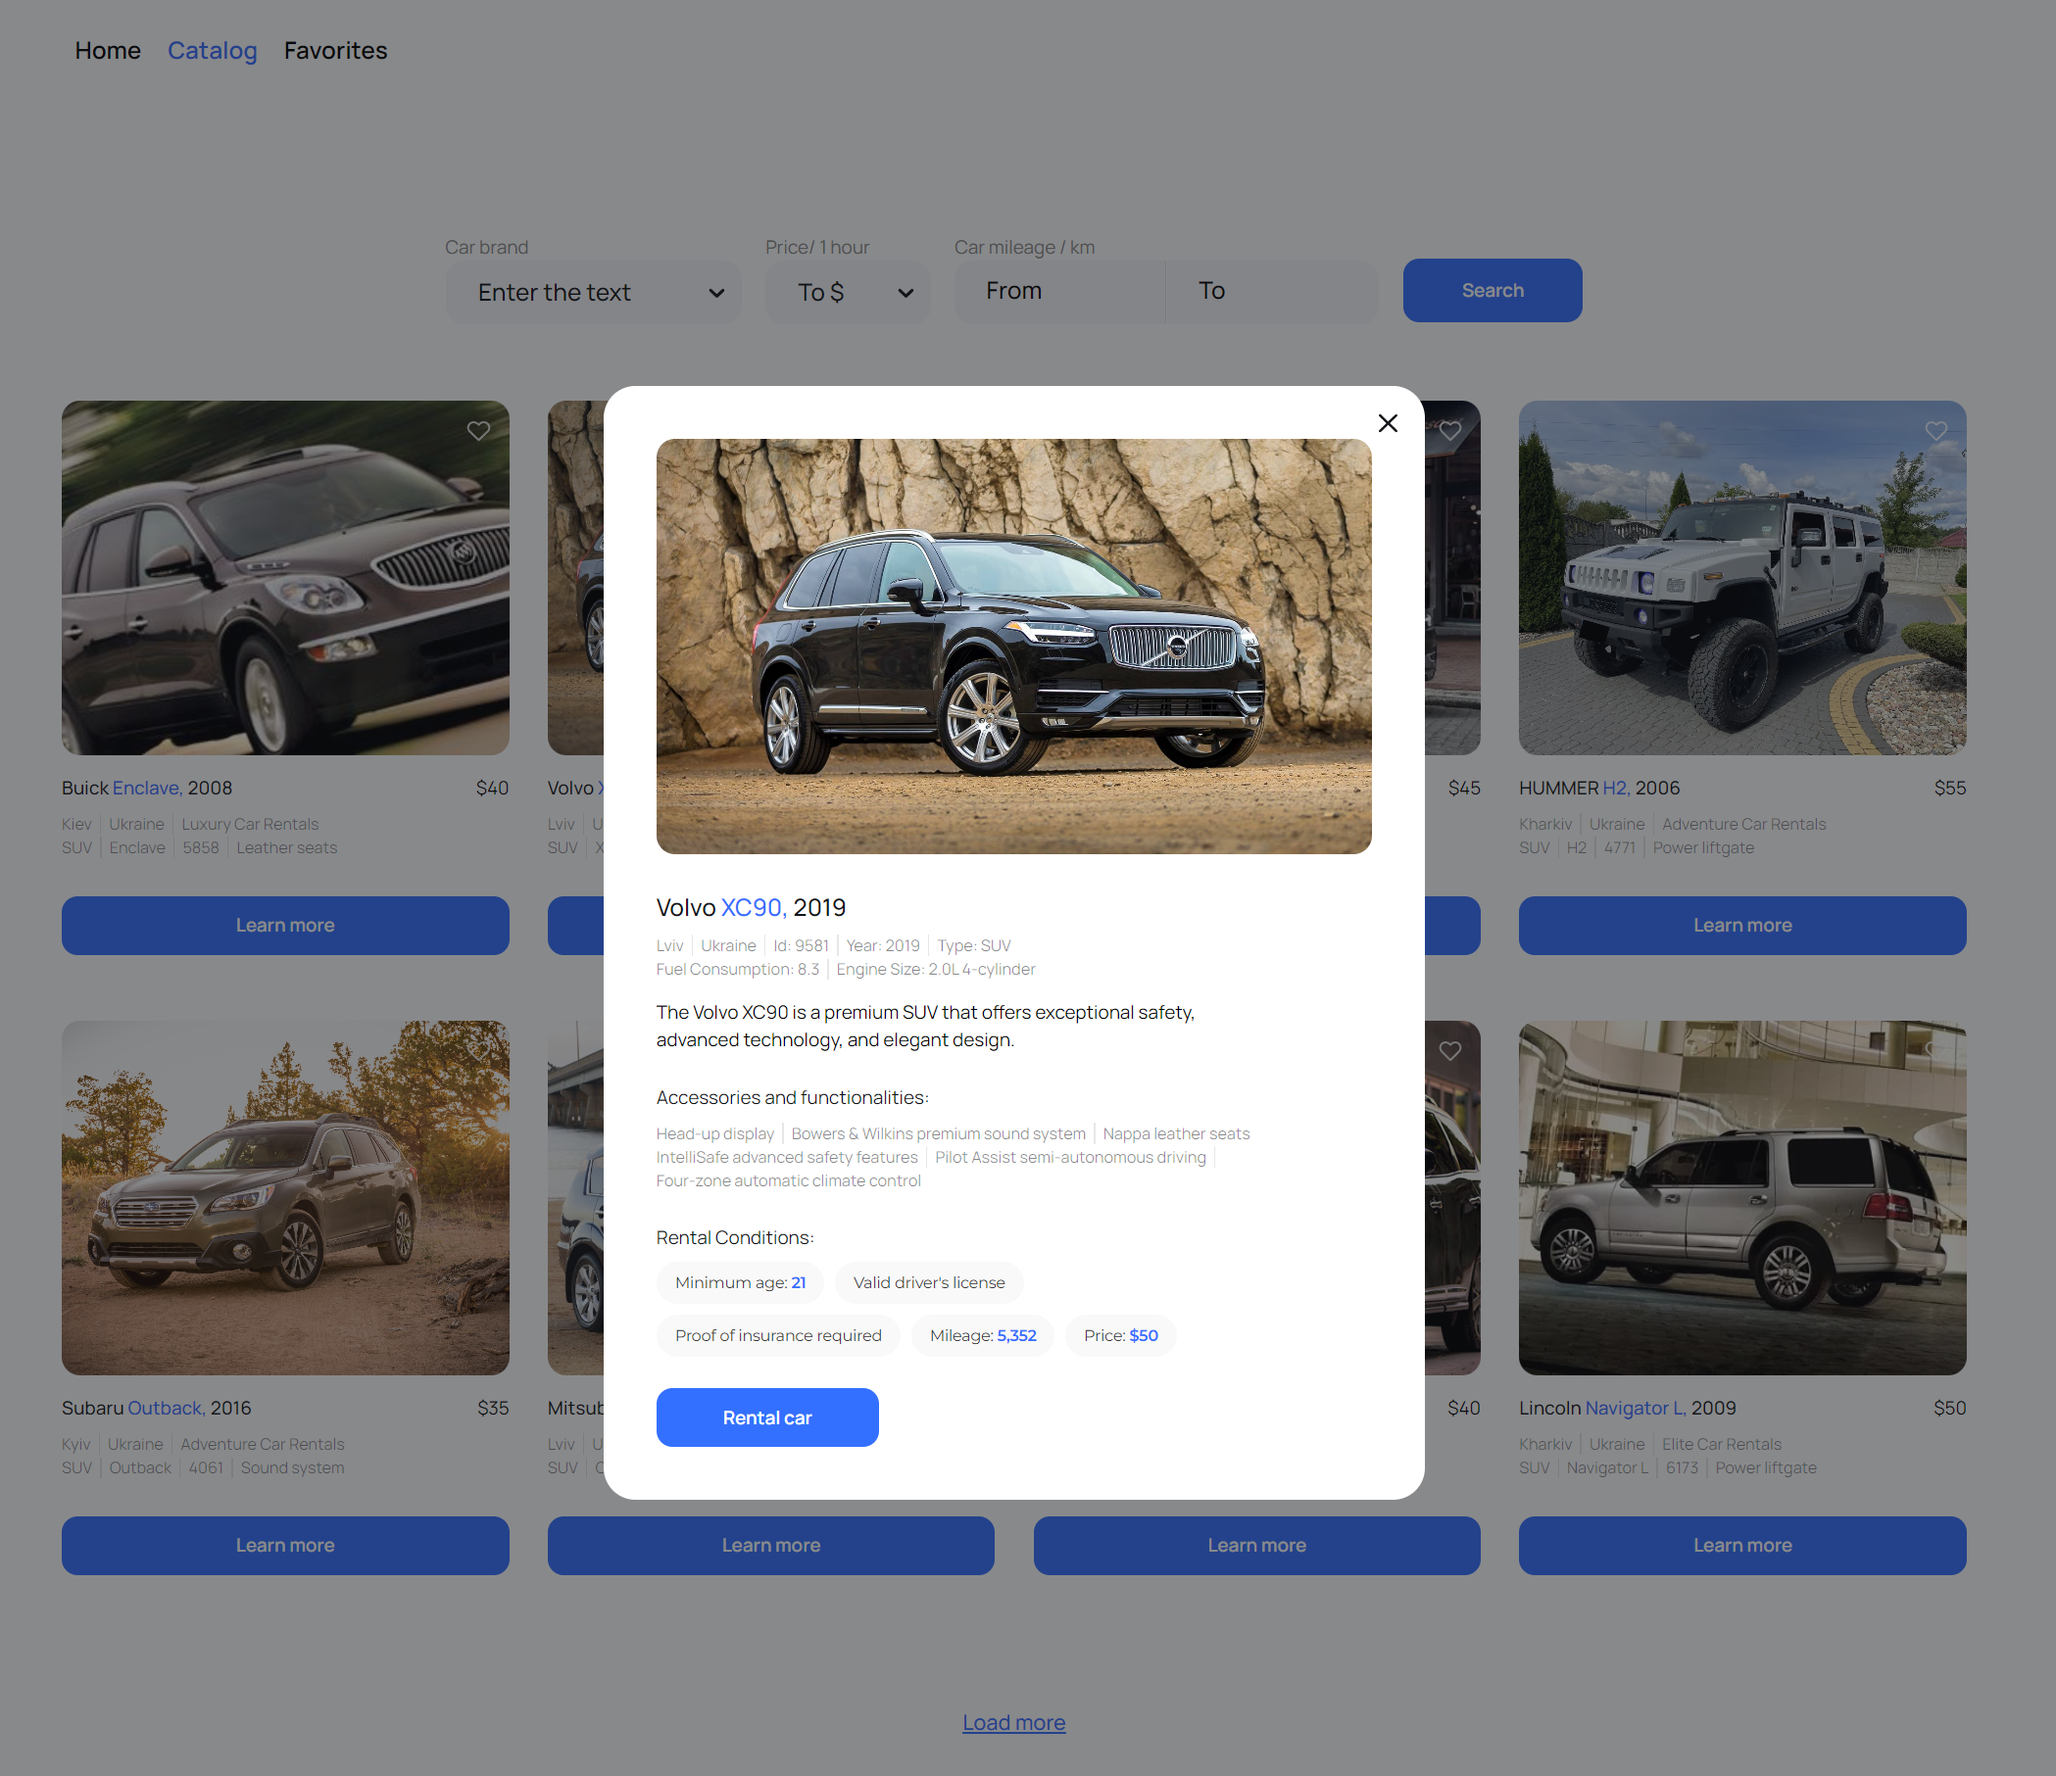
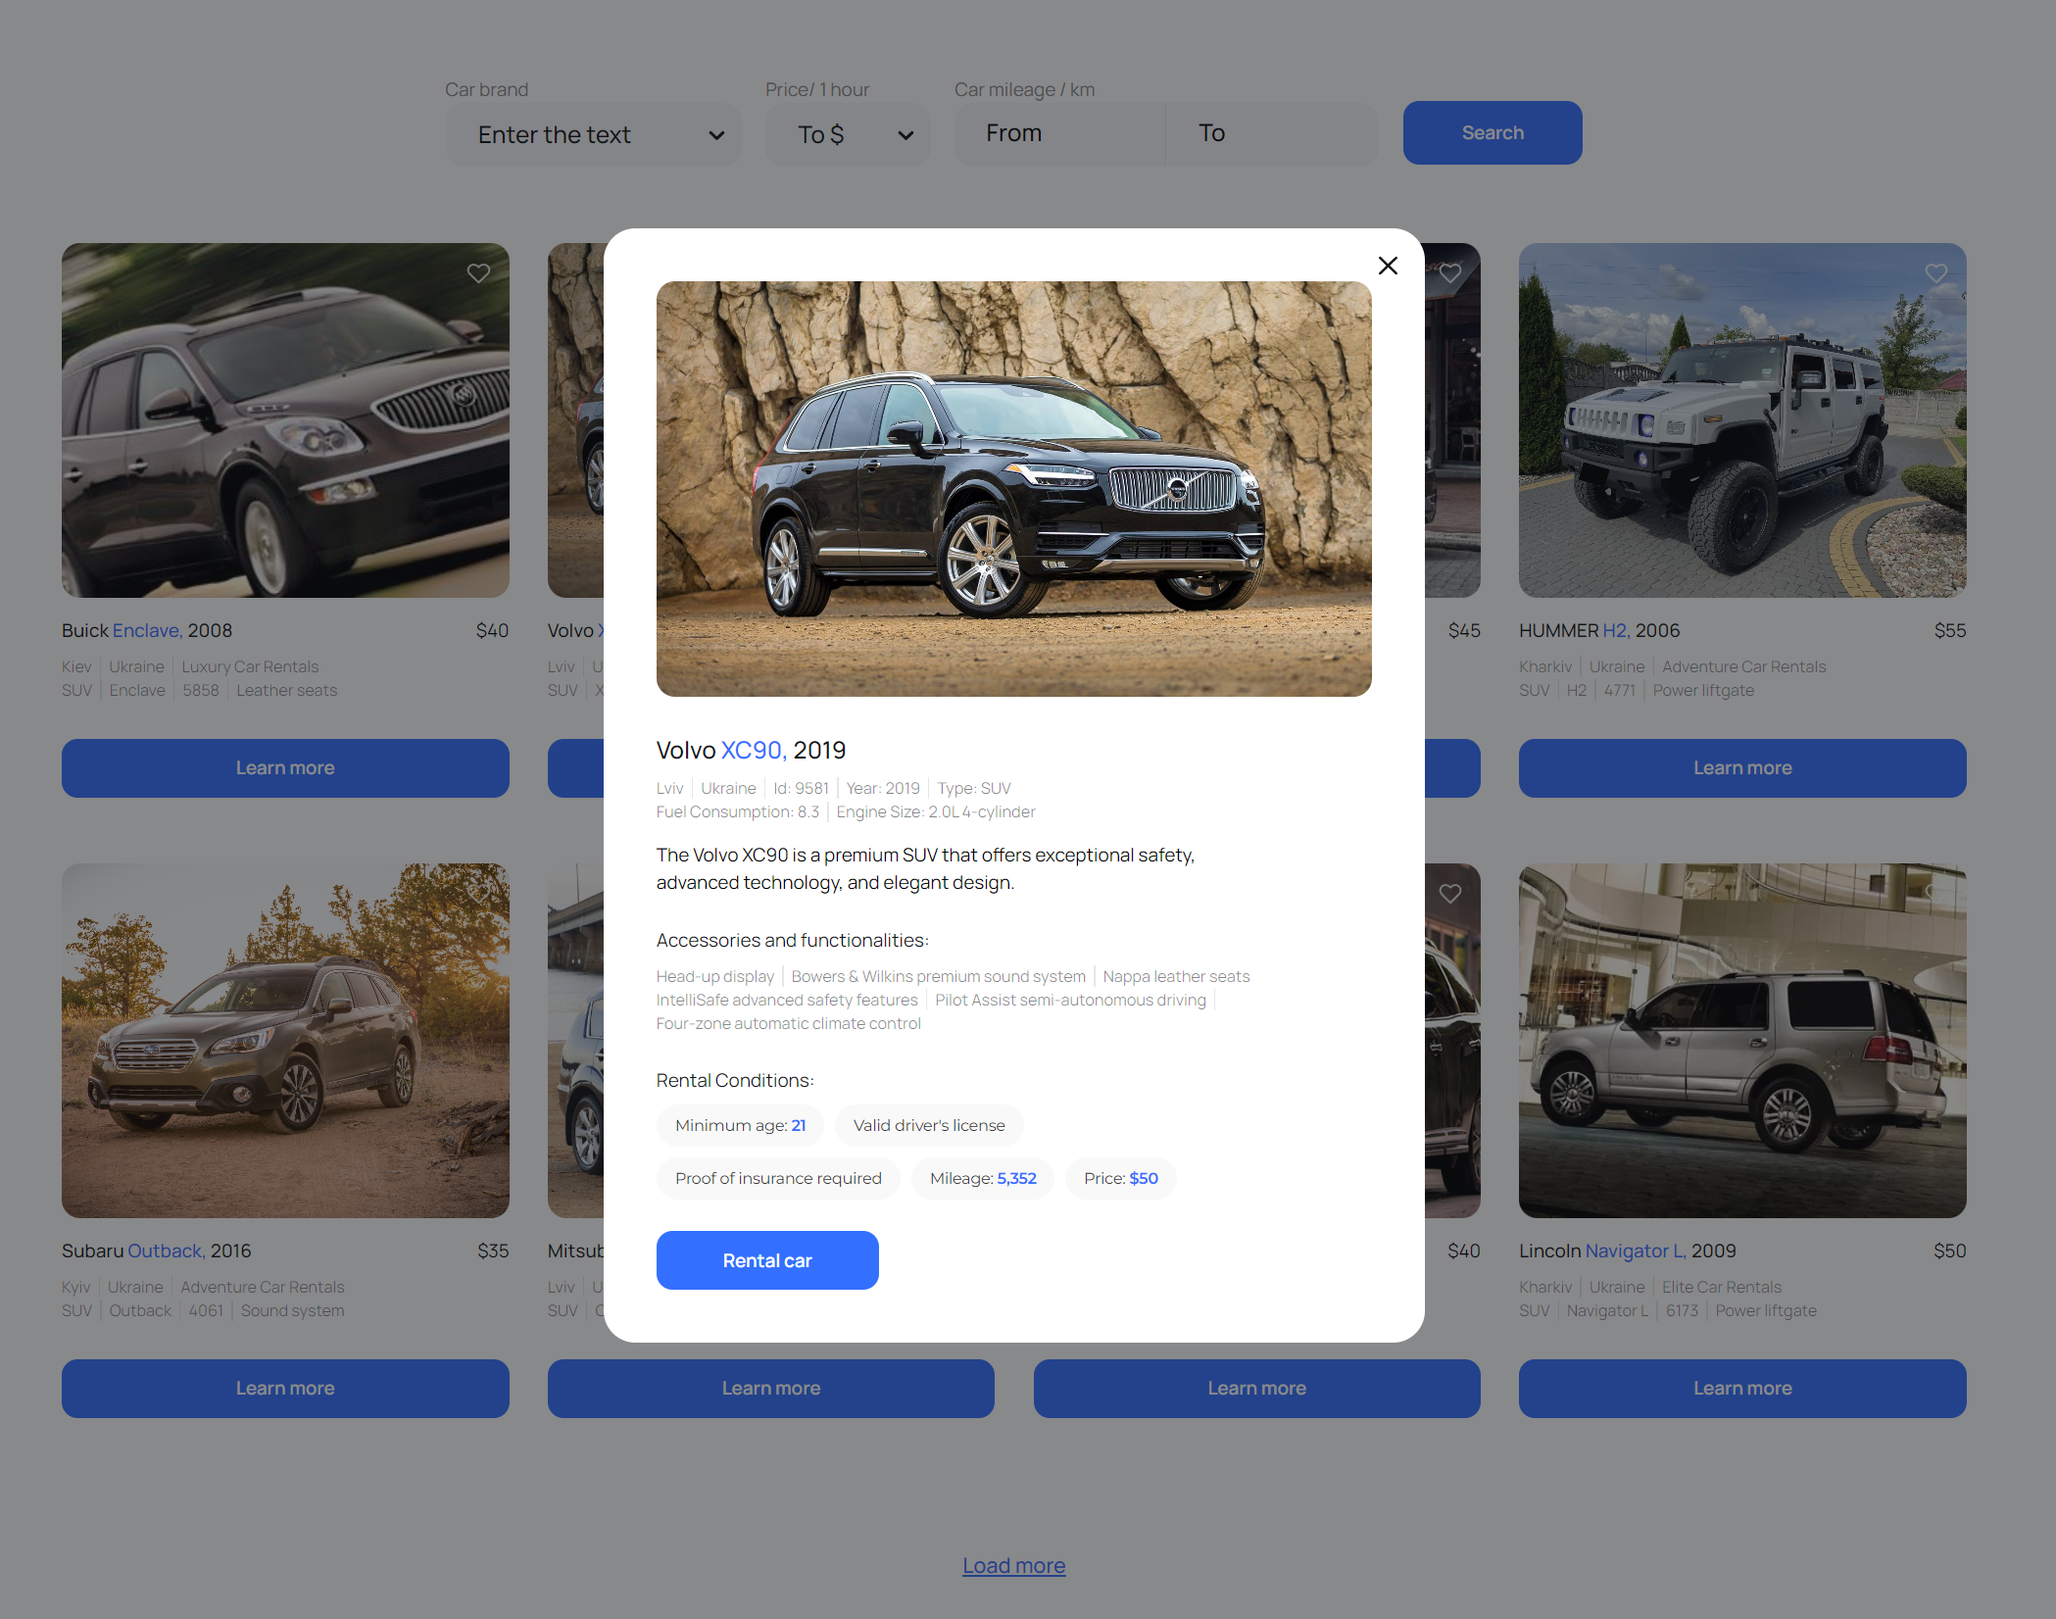
Update modal

diff --git a/src/components/Modal/Modal.jsx b/src/components/Modal/Modal.jsx
@@ -34,9 +34,11 @@ export const Modal = ({ carId, onClose }) => {
             if (e.code === 'Escape') onClose();
         };
         window.addEventListener('keydown', handleKeyDown);
+        document.body.style.overflow = 'hidden';
 
         return () => {
             window.removeEventListener('keydown', handleKeyDown);
+            document.body.style.overflow = 'visible';
         };
     }, [onClose]);
 
@@ -48,7 +50,7 @@ export const Modal = ({ carId, onClose }) => {
         <Overlay onClick={handleClickBackdrop}>
             <ModalStyled>
                 <CloseIcon style={iconStyles} onClick={onClose}/>
-                <Image src={img} alt={make} loading="lazy" />
+                <Image src={img} alt={make} loading="lazy"  width="469" height="314"/>
                 <InfoWrap>
                     <TitleWrap>
                         <Title>{make} <Span>{model}, </Span>{year}</Title>

diff --git a/src/components/Modal/Modal.styled.jsx b/src/components/Modal/Modal.styled.jsx
@@ -7,7 +7,6 @@ export const Overlay = styled.div`
     width: 100vw;
     height: 100vh;
     background-color: var( --secondary-text-color);
-    overflow: auto;
 `;
 
 export const ModalStyled = styled.div`
@@ -18,8 +17,10 @@ export const ModalStyled = styled.div`
 
     border-radius: 14px;
     background-color: var(--text-button-color);
-    width: calc(100% - 20px);
     padding: 30px;
+    width: calc(100% - 20px);
+    max-height: calc(100% - 20px);
+    overflow: auto;
 
     @media screen and (min-width: 480px) {
         width: 450px;
@@ -29,6 +30,7 @@ export const ModalStyled = styled.div`
     @media screen and (min-width: 768px) {
         width: 541px;
         padding: 34px;
+        max-height: 830px;
     }
 `;
 

diff --git a/src/components/CarsListItem/CarsListItem.jsx b/src/components/CarsListItem/CarsListItem.jsx
@@ -7,7 +7,7 @@ import { ReactComponent as FavoriteIcon } from '../../images/icons/favorite.svg'
 import { ReactComponent as FavoriteActiveIcon } from '../../images/icons/favorite-active.svg';
 import { Button, Image, Title, Item, Span, TitleWrap, DetailsItem, DetailsList, InfoWrap, iconStyles } from "./CarsListItem.styled";
 
-const DEFAULT_URL = "../../images/no-image.jpg";
+const DEFAULT_URL = "../../images/backgrounds/no-image.jpg";
 
 export const CarsListItem = ({
         id,

diff --git a/src/pages/Catalog/Catalog.styled.jsx b/src/pages/Catalog/Catalog.styled.jsx
@@ -15,7 +15,11 @@ export const Button = styled.button`
     text-decoration: underline;
     margin-right: auto;
     margin-left: auto;
-    margin-bottom: 150px;
+    margin-bottom: 100px;
     cursor: pointer;
     background-color: transparent;
+
+    @media screen and (min-width: 768px) {
+        margin-bottom: 150px;
+    }
 `;

diff --git a/src/components/CarsList/CarsList.styled.jsx b/src/components/CarsList/CarsList.styled.jsx
@@ -27,5 +27,9 @@ export const List = styled.ul`
     row-gap: 50px;
     column-gap: 29px;
     padding-top: 50px;
-    padding-bottom: 100px;
+    padding-bottom: 50px;
+
+    @media screen and (min-width: 768px) {
+        padding-bottom: 100px;
+    }
 `;
